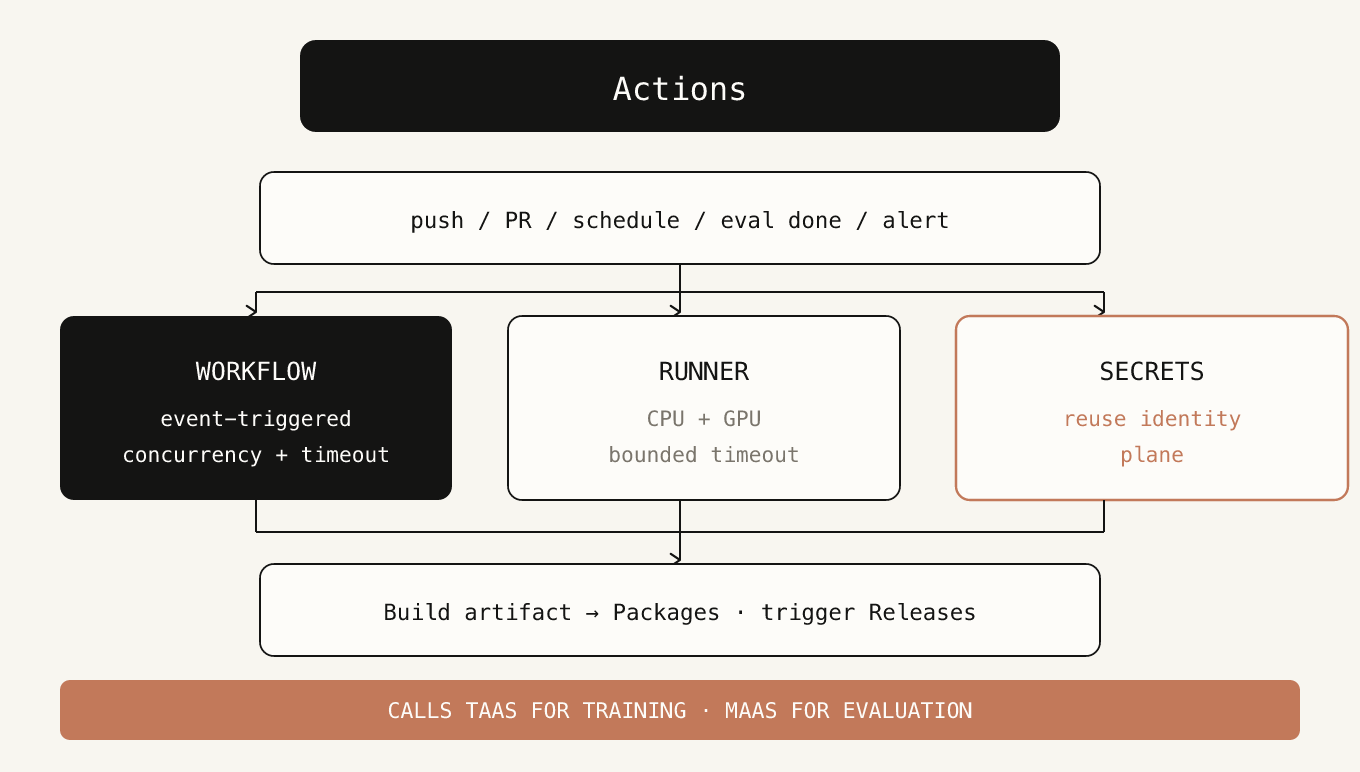
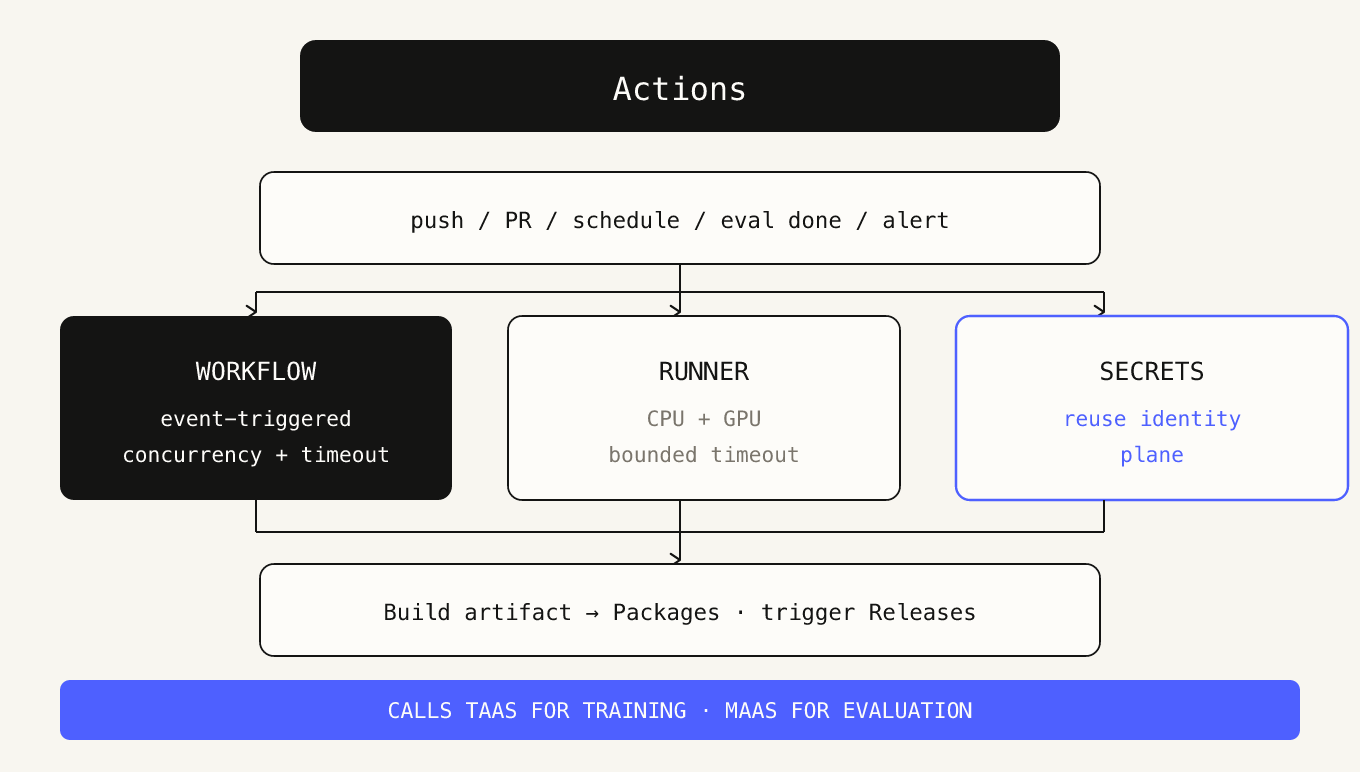
style: switch architecture diagrams to kense accent blue #4E60FF

Changed region(s): [[0.0309, 0.8705, 0.9574, 0.9637], [0.7103, 0.4041, 1.0, 0.6528]]

diff --git a/docs/naming/index.html b/docs/naming/index.html
@@ -3,7 +3,7 @@
 <meta name="viewport" content="width=device-width, initial-scale=1">
 <title>Kense OS · 架构分析与命名优化</title>
 <style>
-:root{--paper:#F8F6F0;--ink:#141413;--clay:#C2795A;--note:#7A756C;--chalk:#FDFCF9;
+:root{--paper:#F8F6F0;--ink:#141413;--clay:#4E60FF;--note:#7A756C;--chalk:#FDFCF9;
  --line:#DCD6C8;--soft:#EFEBE1;--page:#EDEAE2}
 *{box-sizing:border-box}
 body{margin:0;background:var(--page);color:var(--ink);font-family:ui-monospace,SFMono-Regular,Menlo,Consolas,"PingFang SC","Microsoft YaHei",monospace;font-size:13px;line-height:1.75}
@@ -105,7 +105,7 @@ ul,ol{margin:0 0 14px;padding-left:22px}li{margin:5px 0}
 <text x="50" y="92" font-size="10.2" fill="#FDFCF9" text-anchor="start">TODAY  aster-boot / aster_orm in 3519 .rs files</text>
 <text x="50" y="110" font-size="10.2" fill="#FDFCF9" text-anchor="start">TARGET  boot / orm — zero brand literals</text>
 <path d="M340 120 L340 134" fill="none" stroke="#141413" stroke-width="1.1" marker-end="url(#nA)"/>
-<rect x="30" y="136" width="620" height="96" rx="9" fill="#C2795A"/>
+<rect x="30" y="136" width="620" height="96" rx="9" fill="#4E60FF"/>
 <text x="50" y="162" font-size="12.5" fill="#FDFCF9" text-anchor="start">L2  WIRE &amp; PERSISTENCE</text>
 <text x="50" y="181" font-size="10.5" fill="#FDFCF9" text-anchor="start">URN · path · schema · event type · proto</text>
 <text x="50" y="204" font-size="10.2" fill="#FDFCF9" text-anchor="start">TODAY  urn:plat:… , aster_inf_ , /v1/…</text>
